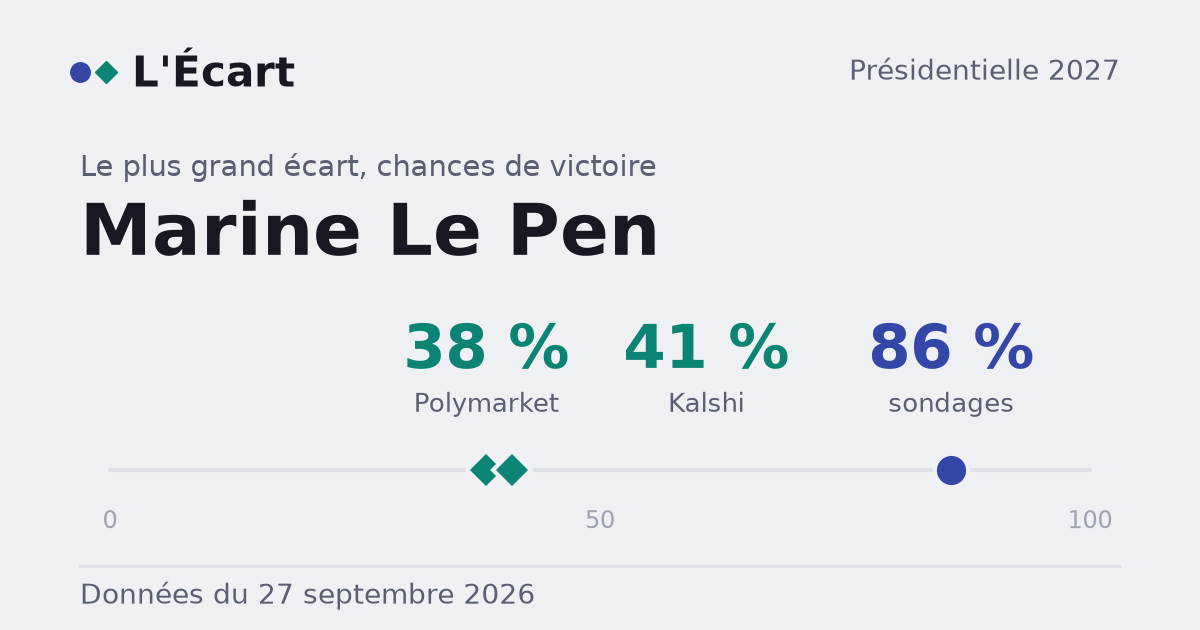
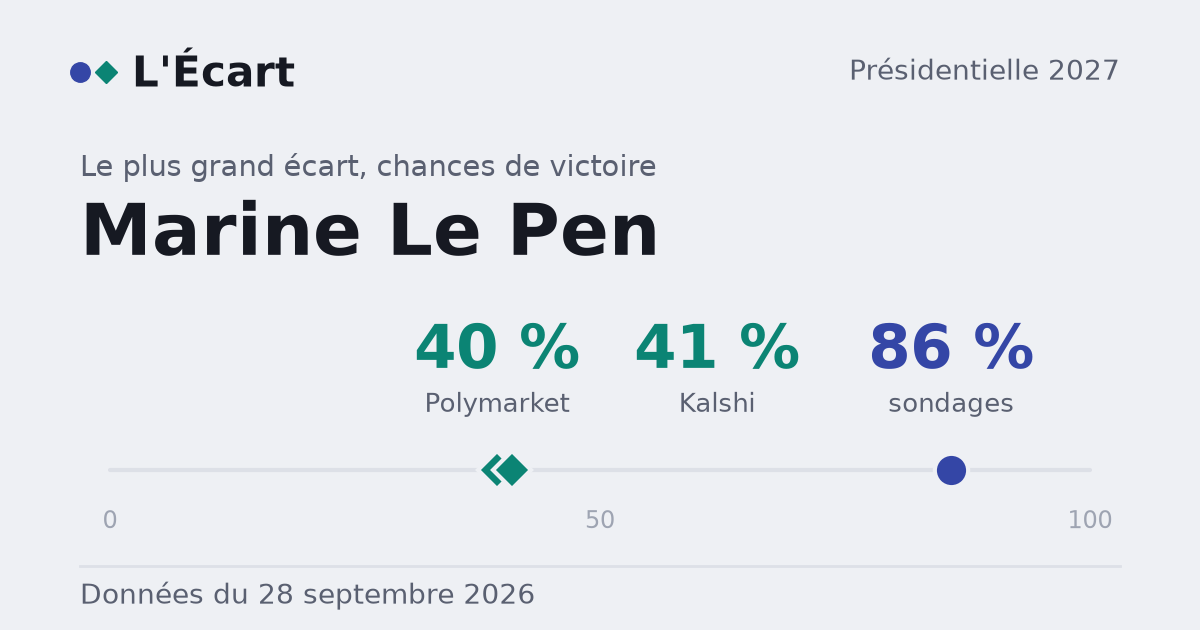
Daily data update 2026-09-28

diff --git a/index.html b/index.html
@@ -7,23 +7,23 @@
 <meta http-equiv="Content-Security-Policy" content="default-src 'self'; script-src 'self' https://gc.zgo.at; style-src 'self'; style-src-attr 'unsafe-inline'; font-src 'self'; img-src 'self' data: https://vikander.goatcounter.com; connect-src 'self' https://vikander.goatcounter.com; object-src 'none'; base-uri 'self'; form-action 'none'">
 <title>L'Écart · Marchés vs sondages, présidentielle 2027</title>
 <!--META-START-->
-<meta name="description" content="Les marchés attribuent à Marine Le Pen entre 38 % et 41 % de chances de l'emporter ; la simulation fondée sur les sondages, 86 %. L'Écart confronte, chaque jour, les probabilités implicites des marchés prédictifs aux probabilités simulées à partir des sondages. L'écart entre les deux mesures est l'objet de ce suivi.">
+<meta name="description" content="Les marchés attribuent à Marine Le Pen entre 40 % et 41 % de chances de l'emporter ; la simulation fondée sur les sondages, 86 %. L'Écart confronte, chaque jour, les probabilités implicites des marchés prédictifs aux probabilités simulées à partir des sondages. L'écart entre les deux mesures est l'objet de ce suivi.">
 <meta property="og:type" content="website">
 <meta property="og:site_name" content="L'Écart">
 <meta property="og:locale" content="fr_FR">
 <meta property="og:url" content="https://lukesegault.github.io/lecart/">
 <meta property="og:title" content="L'Écart · Marchés vs sondages, présidentielle 2027">
-<meta property="og:description" content="Les marchés attribuent à Marine Le Pen entre 38 % et 41 % de chances de l'emporter ; la simulation fondée sur les sondages, 86 %. L'Écart confronte, chaque jour, les probabilités implicites des marchés prédictifs aux probabilités simulées à partir des sondages. L'écart entre les deux mesures est l'objet de ce suivi.">
+<meta property="og:description" content="Les marchés attribuent à Marine Le Pen entre 40 % et 41 % de chances de l'emporter ; la simulation fondée sur les sondages, 86 %. L'Écart confronte, chaque jour, les probabilités implicites des marchés prédictifs aux probabilités simulées à partir des sondages. L'écart entre les deux mesures est l'objet de ce suivi.">
 <meta property="og:image" content="https://lukesegault.github.io/lecart/og-image.png">
 <meta property="og:image:width" content="1200">
 <meta property="og:image:height" content="630">
-<meta property="og:image:alt" content="Marine Le Pen, 86 % dans les sondages contre Polymarket 38 % / Kalshi 41 % sur les marchés (27 septembre 2026)">
+<meta property="og:image:alt" content="Marine Le Pen, 86 % dans les sondages contre Polymarket 40 % / Kalshi 41 % sur les marchés (28 septembre 2026)">
 <meta name="twitter:card" content="summary_large_image">
 <meta name="twitter:title" content="L'Écart · Marchés vs sondages, présidentielle 2027">
-<meta name="twitter:description" content="Les marchés attribuent à Marine Le Pen entre 38 % et 41 % de chances de l'emporter ; la simulation fondée sur les sondages, 86 %. L'Écart confronte, chaque jour, les probabilités implicites des marchés prédictifs aux probabilités simulées à partir des sondages. L'écart entre les deux mesures est l'objet de ce suivi.">
+<meta name="twitter:description" content="Les marchés attribuent à Marine Le Pen entre 40 % et 41 % de chances de l'emporter ; la simulation fondée sur les sondages, 86 %. L'Écart confronte, chaque jour, les probabilités implicites des marchés prédictifs aux probabilités simulées à partir des sondages. L'écart entre les deux mesures est l'objet de ce suivi.">
 <meta name="twitter:image" content="https://lukesegault.github.io/lecart/og-image.png">
-<meta name="twitter:image:alt" content="Marine Le Pen, 86 % dans les sondages contre Polymarket 38 % / Kalshi 41 % sur les marchés (27 septembre 2026)">
-<meta name="data-version" content="2026-09-27">
+<meta name="twitter:image:alt" content="Marine Le Pen, 86 % dans les sondages contre Polymarket 40 % / Kalshi 41 % sur les marchés (28 septembre 2026)">
+<meta name="data-version" content="2026-09-28">
 <!--META-END-->
 <link rel="preload" href="fonts/bodoni-moda-500-latin.woff2" as="font" type="font/woff2" crossorigin>
 <link rel="preload" href="fonts/ibm-plex-sans-400-latin.woff2" as="font" type="font/woff2" crossorigin>
@@ -53,7 +53,7 @@
 </div>
 <div id="mainContent">
 <p class="sp-kicker" data-i="ctx">Présidentielle 2027</p>
-<h1 class="sp-h1" id="siteH1">Les marchés attribuent à Marine Le Pen entre 38 % et 41 % de chances de l'emporter ; la simulation fondée sur les sondages, 86 %.</h1>
+<h1 class="sp-h1" id="siteH1">Les marchés attribuent à Marine Le Pen entre 40 % et 41 % de chances de l'emporter ; la simulation fondée sur les sondages, 86 %.</h1>
 <p class="sp-dek" data-i="dek">L'Écart confronte, chaque jour, les probabilités implicites des marchés prédictifs aux probabilités simulées à partir des sondages. L'écart entre les deux mesures est l'objet de ce suivi.</p>
 <div class="sp-meta"><span id="siteSnap"></span><span id="siteSources"></span></div>
 
@@ -173,7 +173,7 @@
     </ul>
     <p class="fine" data-i="dlNote">Sondages : MieuxVoter/presidentielle2027 (licence MIT). Prix : relevés publics, présentés comme des données.</p>
     <h3 data-i="citeT">Citer cette page</h3>
-    <p class="cite" data-i="cite">Segault, L. (2026). L'Écart : marchés et sondages, présidentielle 2027. https://lukesegault.github.io/lecart/ (mis à jour le 27 septembre 2026).</p>
+    <p class="cite" data-i="cite">Segault, L. (2026). L'Écart : marchés et sondages, présidentielle 2027. https://lukesegault.github.io/lecart/ (mis à jour le 28 septembre 2026).</p>
   </div>
 </section>
 </div>

diff --git a/second-tour.html b/second-tour.html
@@ -18,7 +18,7 @@
 <meta name="twitter:title" content="L'Écart · Second tour / Runoff">
 <meta name="twitter:description" content="Chaque duel de second tour testé par les instituts. / Every runoff pairing tested by pollsters.">
 <meta name="twitter:image" content="https://lukesegault.github.io/lecart/og-image.png">
-<meta name="data-version" content="2026-09-27">
+<meta name="data-version" content="2026-09-28">
 <link rel="preload" href="fonts/bodoni-moda-500-latin.woff2" as="font" type="font/woff2" crossorigin>
 <link rel="preload" href="fonts/ibm-plex-sans-400-latin.woff2" as="font" type="font/woff2" crossorigin>
 <link rel="stylesheet" href="fonts/fonts.css">

diff --git a/candidat.html b/candidat.html
@@ -18,7 +18,7 @@
 <meta name="twitter:title" content="L'Écart · Candidat / Candidate">
 <meta name="twitter:description" content="Un candidat, marché contre sondages. / One candidate, market against polls.">
 <meta name="twitter:image" content="https://lukesegault.github.io/lecart/og-image.png">
-<meta name="data-version" content="2026-09-27">
+<meta name="data-version" content="2026-09-28">
 <link rel="preload" href="fonts/bodoni-moda-500-latin.woff2" as="font" type="font/woff2" crossorigin>
 <link rel="preload" href="fonts/ibm-plex-sans-400-latin.woff2" as="font" type="font/woff2" crossorigin>
 <link rel="stylesheet" href="fonts/fonts.css">
